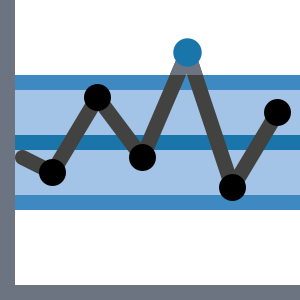
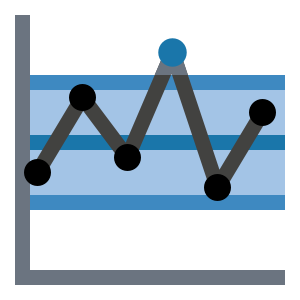
Flyt ikonets indhold ind i en sikker zone
Power BI klipper den yderste pixelring væk, når ikonet vises i
visualiseringsruden. Aksen lå i kolonne 0 og række 19, altså præcis i den
ring, og forsvandt derfor helt. Det var synligt i ruden, men ikke i nogen
af de kontroller, jeg havde lavet — jeg havde gengivet ikonet på hvid og
mørk baggrund, aldrig med kanten klippet.

Alt indhold ligger nu inden for x 1..18 og y 1..18. Aksen løber langs x=1
og y=18. Datapunkternes afstand er samtidig ændret fra tre til tre med et
nyt udgangspunkt, så serien holder sig inden for den smallere flade:
(2,11) (5,6) (8,10) (11,3) (14,12) (17,7).

Den reelle tegneflade er dermed 18x18 og ikke 20x20 — en tredjedel mindre
areal end formatet antyder. Det står i assets/README.md sammen med en
kommando, der kontrollerer, at ringen er tom.

Verificeret ved at simulere klipningen: med den gamle geometri forsvandt
aksen helt, med den nye står den. Yderste ring indeholder nu nul
ikke-tomme pixels.

508 tests grønne.

diff --git a/assets/README.md b/assets/README.md
@@ -10,6 +10,30 @@ To filer, to formål. Det er bevidst, og de skal holdes i sync i hånden.
 
 `pbiviz.json` peger på `icon.png`.
 
+## Sikker zone: den yderste pixelring vises ikke
+
+Power BI klipper den yderste pixelring væk, når ikonet vises i
+visualiseringsruden. Det blev opdaget, fordi aksen forsvandt: den lå i
+kolonne 0 og række 19, altså præcis i den ring.
+
+**Læg intet i ring 0 eller 19.** Alt indhold ligger nu inden for x 1..18 og
+y 1..18, med aksen langs x=1 og y=18. Kontrollér efter en ændring, at ringen
+er tom:
+
+```
+python3 -c "
+from PIL import Image
+p = Image.open('assets/icon.png').convert('RGBA').load()
+ring = ([p[i,0] for i in range(20)] + [p[i,19] for i in range(20)]
+        + [p[0,i] for i in range(20)] + [p[19,i] for i in range(20)])
+print('ikke-tomme pixels i yderste ring:', sum(1 for c in ring if c[3] > 0))
+"
+```
+
+De 18×18, der er tilbage, er den reelle tegneflade. Det er en tredjedel
+mindre areal end de 20×20 antyder, og det er værd at huske, næste gang
+motivet skal ændres.
+
 ## Hvorfor de 20×20 ikke kommer fra vektoren
 
 Det oplagte ville være at have én kilde og generere begge størrelser ud fra
